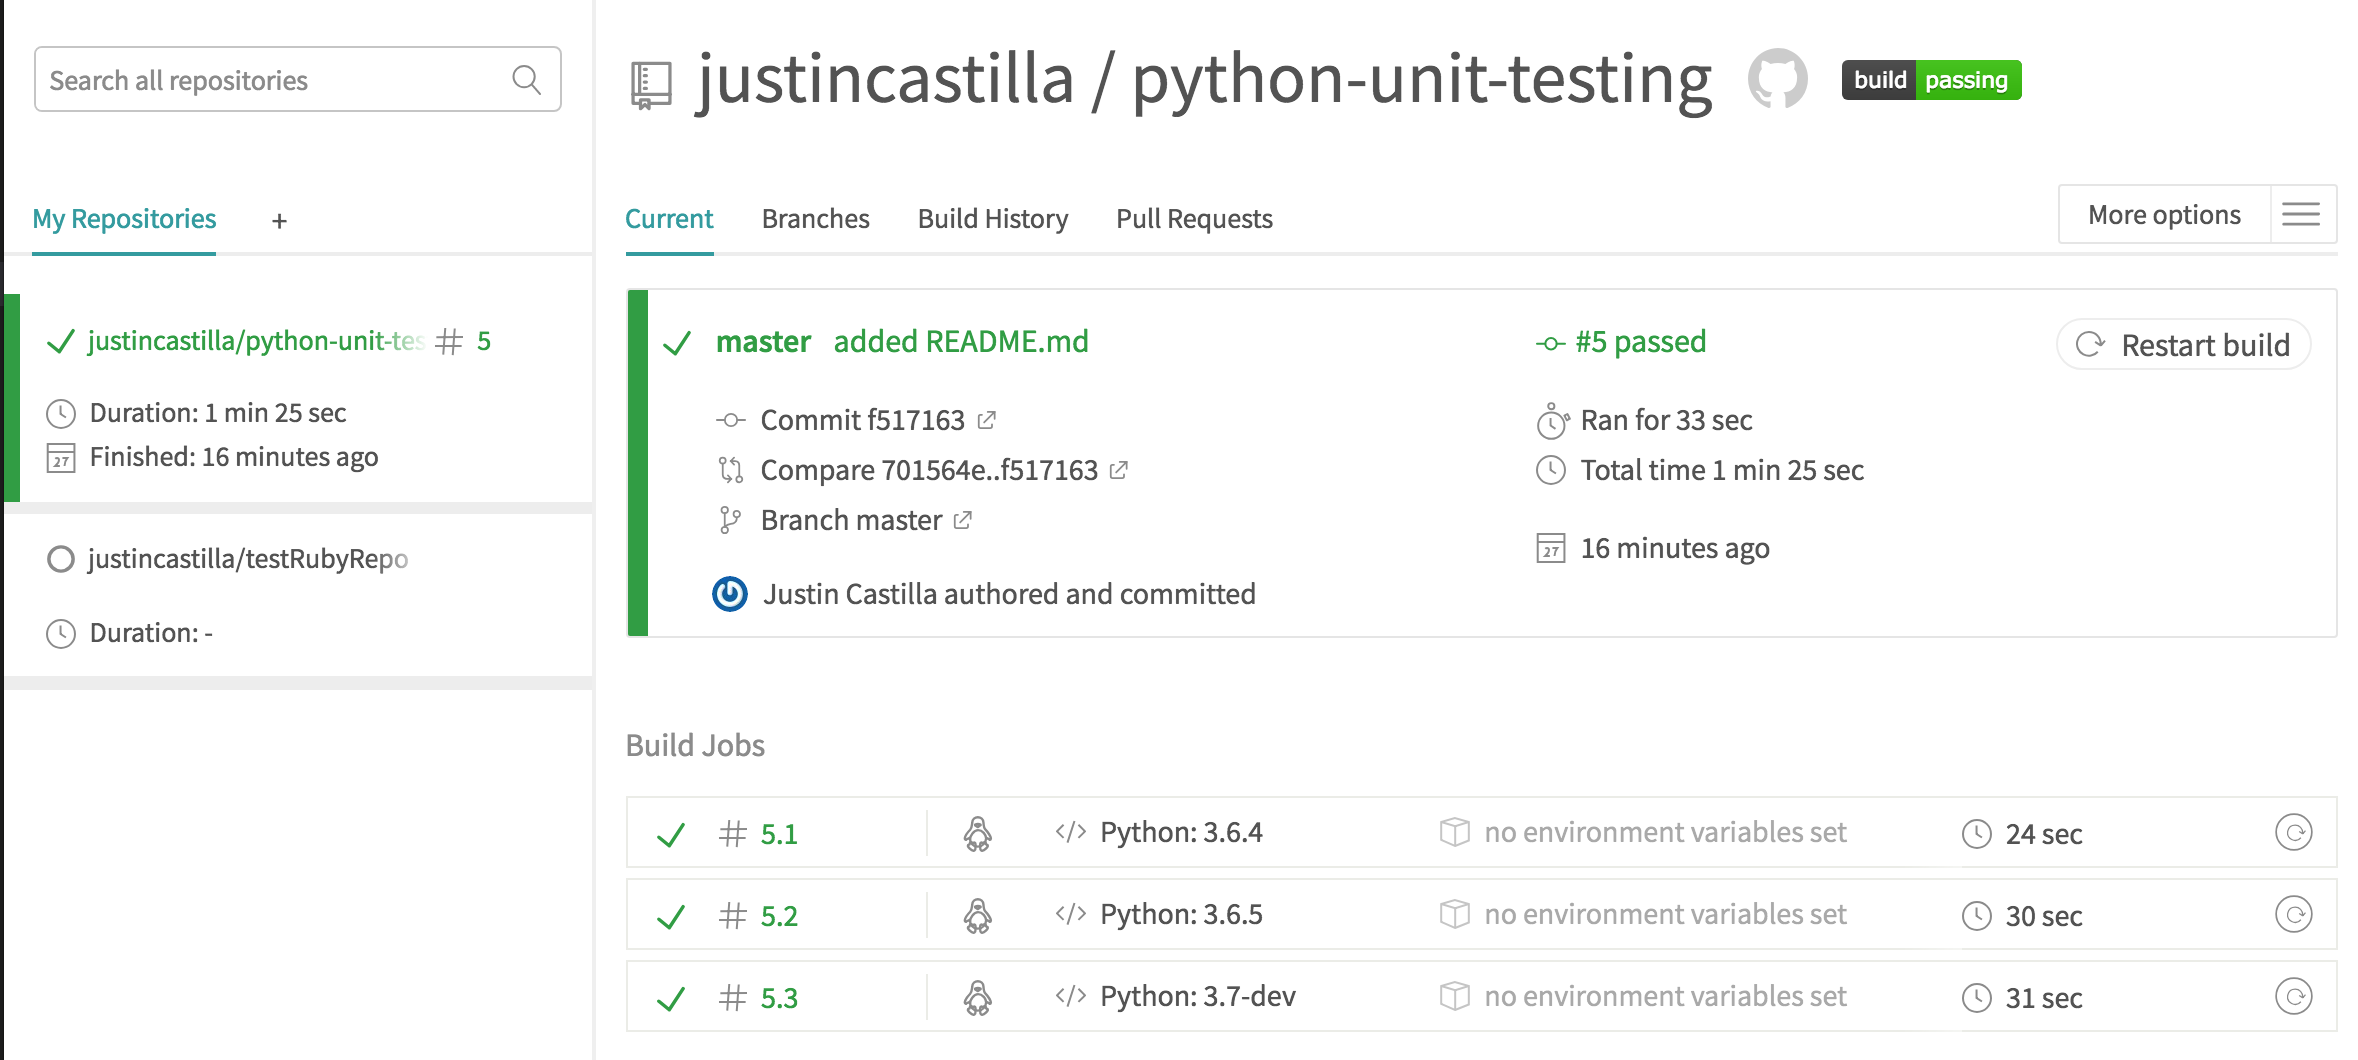
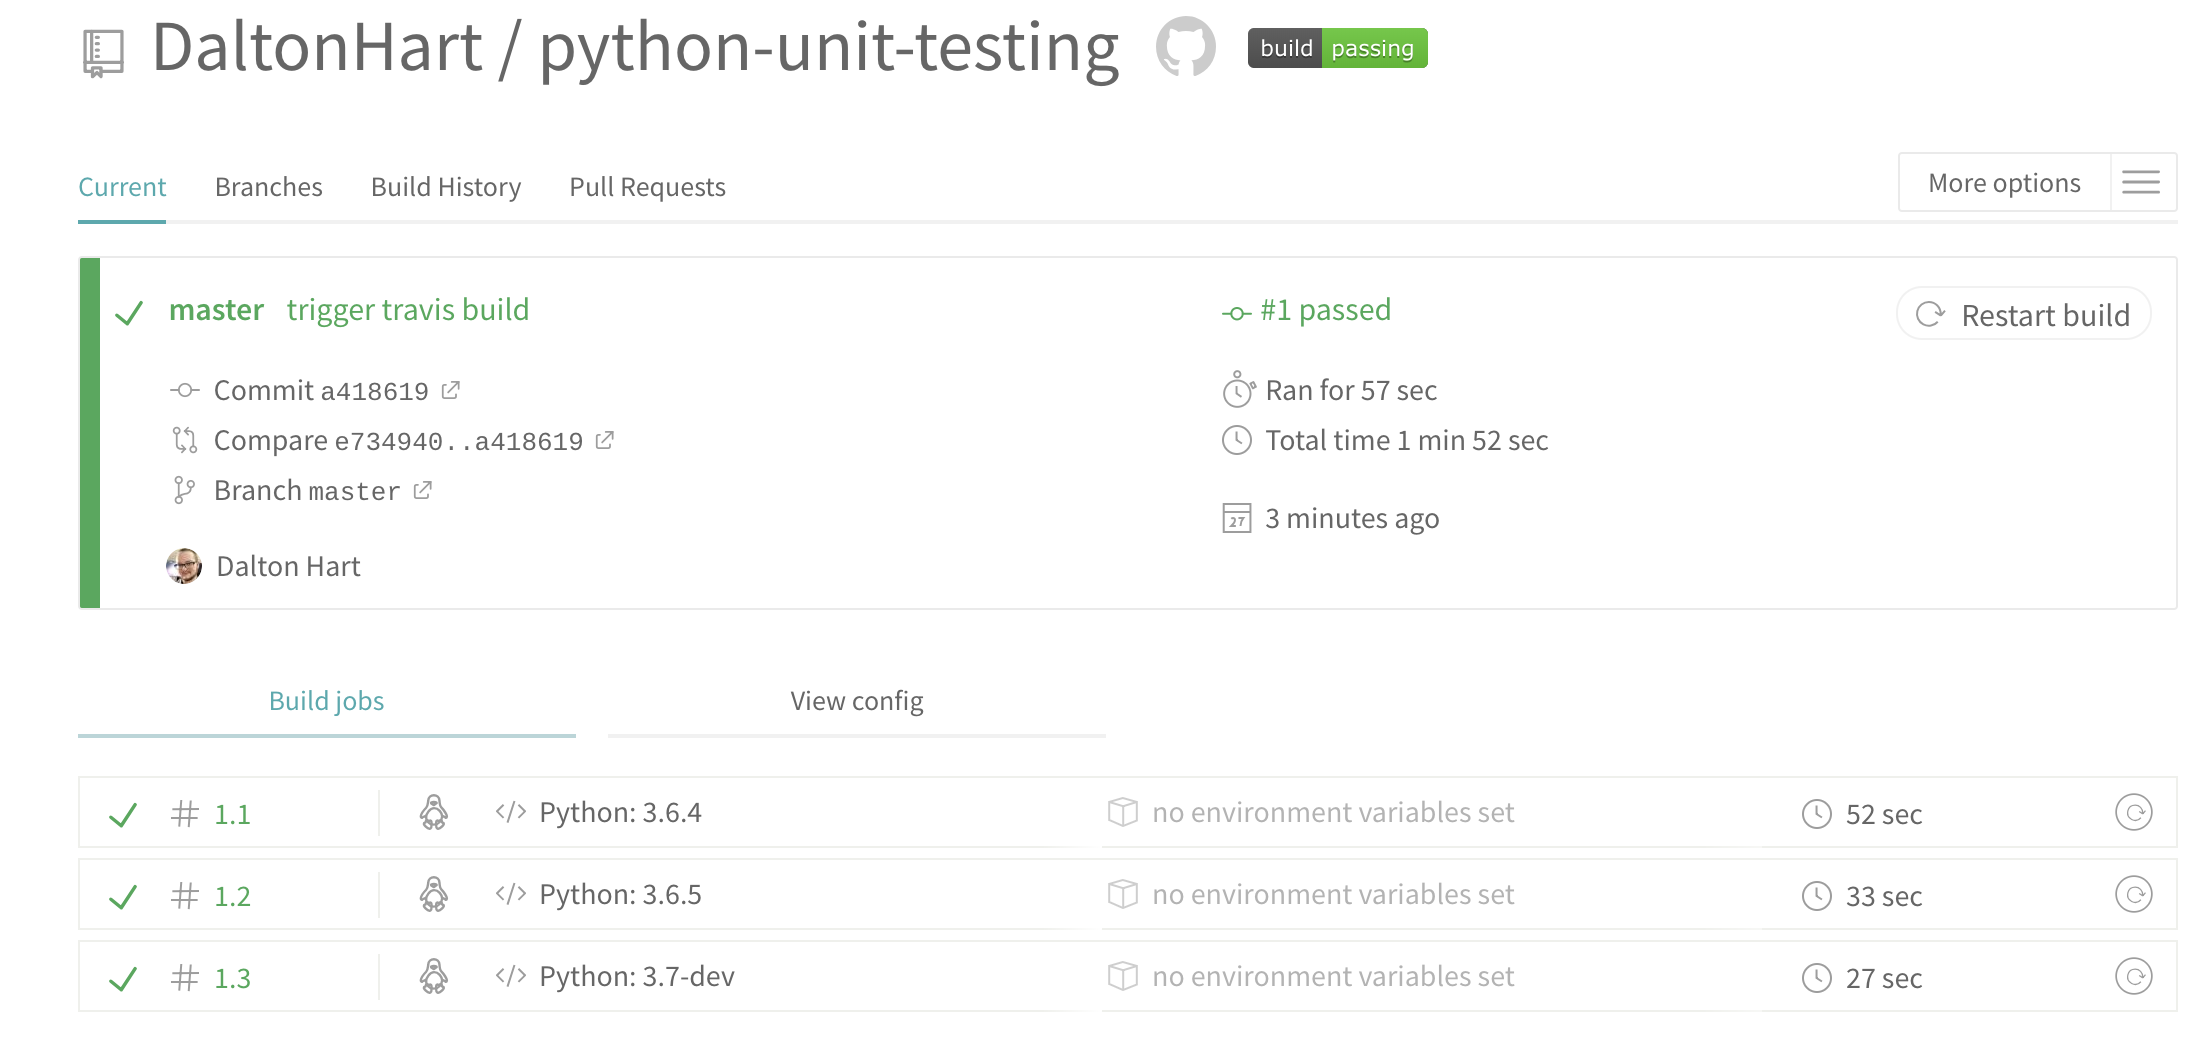
travis updated

diff --git a/README.md b/README.md
@@ -1,6 +1,6 @@
 # <img src="https://cloud.githubusercontent.com/assets/7833470/10899314/63829980-8188-11e5-8cdd-4ded5bcb6e36.png" height="60"> Python Unit Testing
 
-[![Build Status](https://travis-ci.org/justincastilla/python-unit-testing.svg?branch=master)](https://travis-ci.org/justincastilla/python-unit-testing)
+[![Build Status](https://travis-ci.org/DaltonHart/python-unit-testing.svg?branch=master)](https://travis-ci.org/DaltonHart/python-unit-testing)
 
 <img src=assets/Tests.png width= 400px>
 
@@ -59,7 +59,7 @@ python:
 
 
 Here is an example screenshot of a successful build report on **Travis CI**:
-<img src="assets/TravisBuild1.png">
+<img src="assets/travisbuild.png">
 
 
 ## Unit Testing with Python
